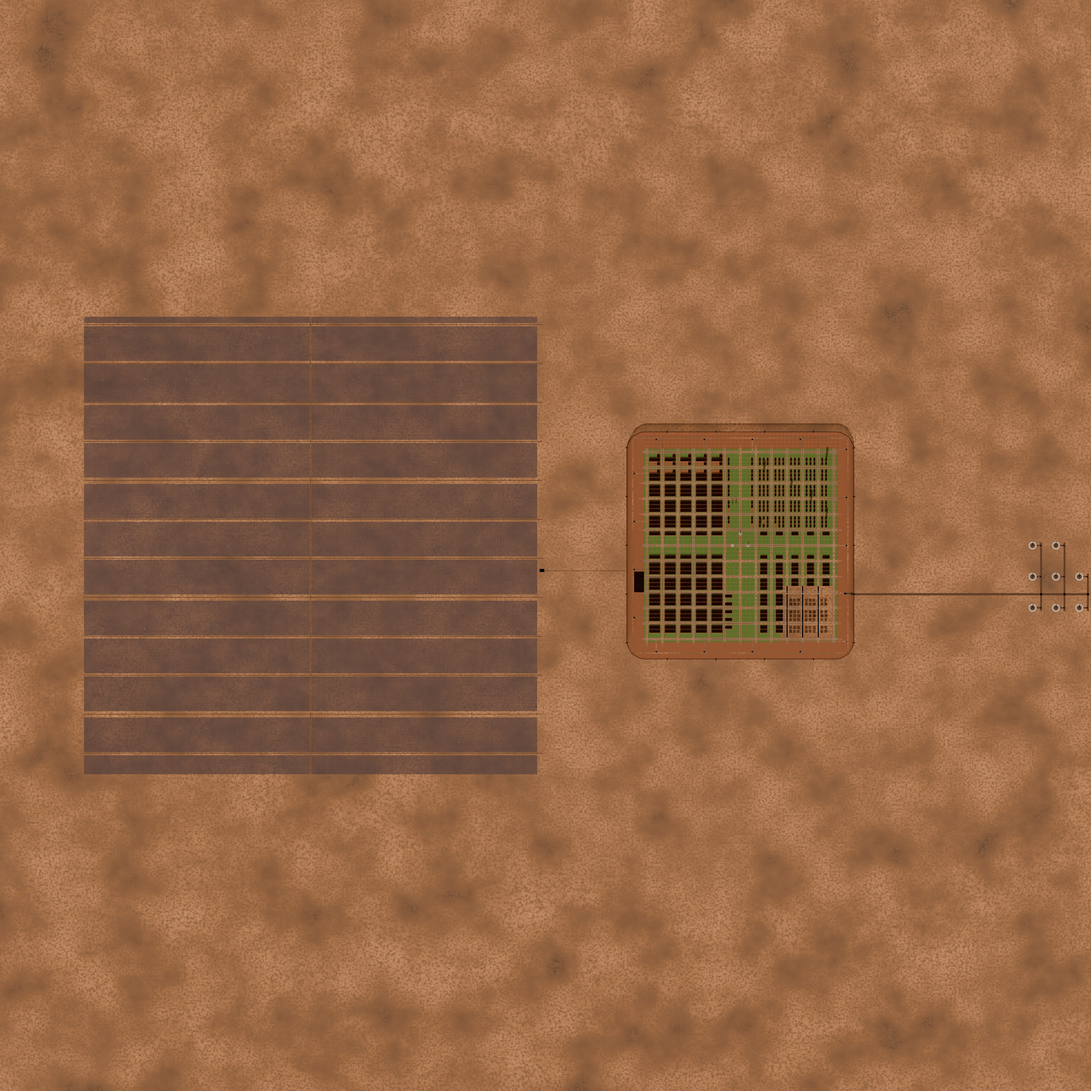
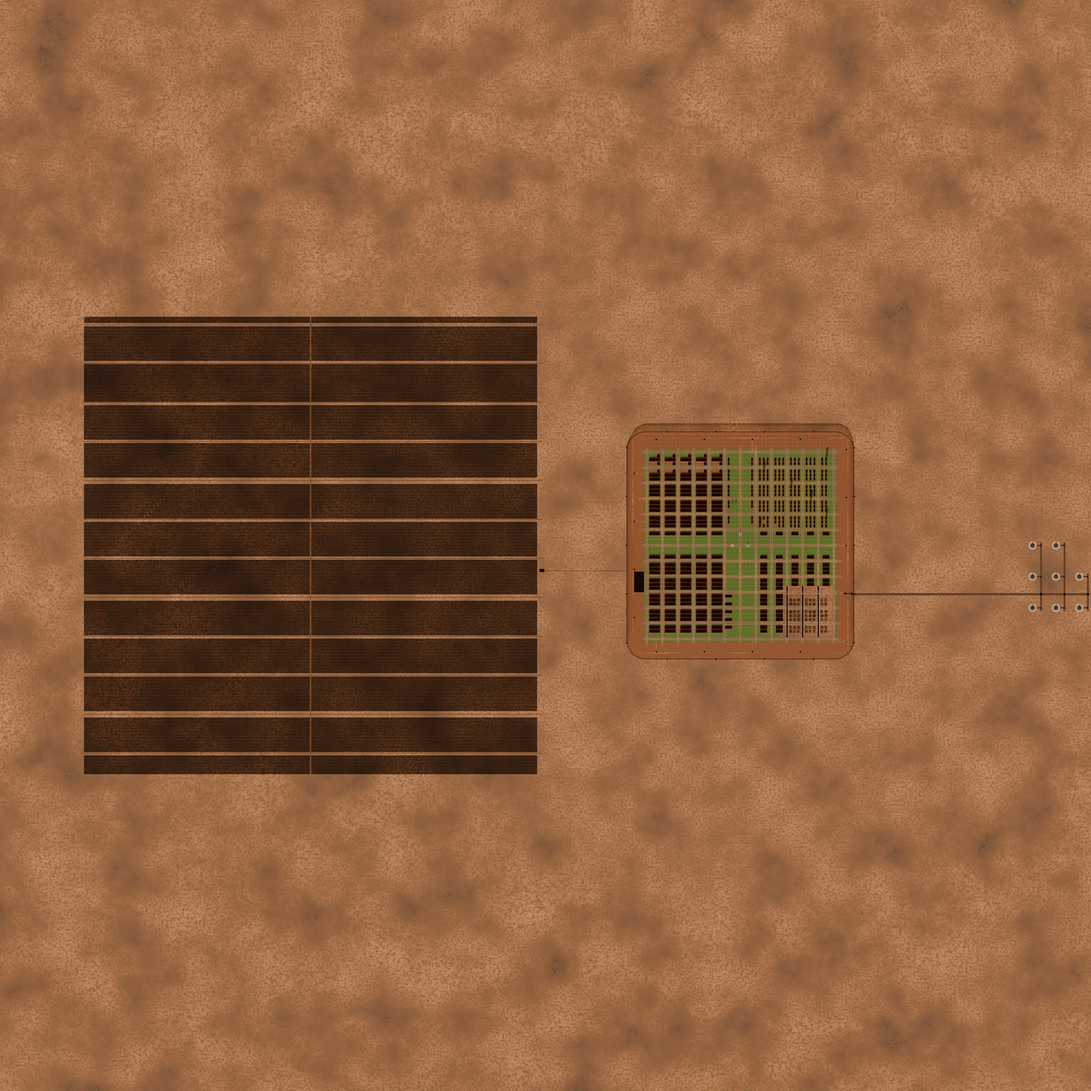
Mars vault: walk mode, touch joysticks, 3D solar farm, bluer sky, tan membrane

Changed region(s): [[0.0625, 0.2812, 0.5, 0.7188]]

diff --git a/mars-vault/viewer.js b/mars-vault/viewer.js
@@ -14,7 +14,8 @@ const info = await (await fetch(asset('scene.json'))).json();
 const b2t = (v) => new THREE.Vector3(v[0], v[2], -v[1]);
 
 const renderer = new THREE.WebGLRenderer({ antialias: true, logarithmicDepthBuffer: true });
-const small = matchMedia('(pointer: coarse)').matches || Math.min(innerWidth, innerHeight) < 600;
+const touch = matchMedia('(pointer: coarse)').matches;
+const small = touch || Math.min(innerWidth, innerHeight) < 600;
 renderer.setPixelRatio(Math.min(window.devicePixelRatio, small ? 1.25 : 2));
 renderer.setSize(window.innerWidth, window.innerHeight);
 renderer.toneMapping = THREE.AgXToneMapping;
@@ -22,7 +23,7 @@ renderer.toneMappingExposure = Math.pow(2, info.exposure_ev ?? 0.9);
 document.body.appendChild(renderer.domElement);
 
 const scene = new THREE.Scene();
-const FOG = new THREE.Color(0xc8b09a);
+const FOG = new THREE.Color(0xc2b3a8);
 const camera = new THREE.PerspectiveCamera(50, window.innerWidth / window.innerHeight, 0.5, 400000);
 
 // Sky: equirectangular Cycles render (world + haze), shown untonemapped.
@@ -99,10 +100,11 @@ const groundMat = new THREE.ShaderMaterial({
 });
 groundMat.toneMapped = false;
 
-// Membrane film: translucent, with welded bay seams and Kevlar lines from world position.
+// Membrane film: tan, fairly opaque and faintly self-lit like the sunlit laminate in the renders,
+// with welded bay seams and Kevlar lines from world position.
 function membraneMat() {
-  const m = new THREE.MeshStandardMaterial({ color: 0xf4efe6, roughness: 0.25, transparent: true, opacity: 0.22,
-                                             side: THREE.DoubleSide, depthWrite: false });
+  const m = new THREE.MeshStandardMaterial({ color: 0xdcc8ad, emissive: 0x5a4632, roughness: 0.55, transparent: true,
+                                             opacity: 0.42, side: THREE.DoubleSide, depthWrite: false });
   m.onBeforeCompile = (sh) => {
     sh.vertexShader = sh.vertexShader.replace('#include <common>', '#include <common>\nvarying vec3 vW;')
       .replace('#include <worldpos_vertex>', '#include <worldpos_vertex>\nvW = (modelMatrix * vec4(transformed, 1.0)).xyz;');
@@ -115,7 +117,14 @@ function membraneMat() {
         float fw = fwidth(q.x) * 0.65;
         float kev = (1.0 - smoothstep(0.02, 0.02 + fw, min(k.x, k.y))) * (1.0 - smoothstep(40.0, 400.0, length(vW - cameraPosition)));
         diffuseColor.rgb = mix(diffuseColor.rgb, vec3(0.78, 0.55, 0.22), kev * 0.6);
-        diffuseColor.a = clamp(diffuseColor.a + seam * 0.45 + kev * 0.25, 0.0, 1.0);`);
+        diffuseColor.a = clamp(diffuseColor.a + seam * 0.35 + kev * 0.2, 0.0, 1.0);`)
+      .replace('#include <emissivemap_fragment>', `#include <emissivemap_fragment>
+        // Sunlight transmitted through the film: facets facing the sun glow more (pillow shading from below).
+        vec3 nW = normalize(cross(dFdx(vW), dFdy(vW)));
+        float tr = abs(dot(nW, uSun));
+        totalEmissiveRadiance *= 0.35 + 1.6 * tr * tr;`)
+      .replace('#include <common>', '#include <common>\nuniform vec3 uSun;');
+    sh.uniforms.uSun = { value: sunDir };
   };
   return m;
 }
@@ -138,13 +147,37 @@ root.traverse((o) => {
   plain.get(key).push(o);
 });
 root.updateMatrixWorld(true);
+
+// Terrain height lookup (Blender XY -> height) from the near terrain grid, for walking and the solar rows.
+const H = (() => {
+  let mesh = null;
+  root.traverse((o) => { if (o.isMesh && /TERRAIN_?near/i.test(o.name + ' ' + (o.parent?.name || ''))) mesh = o; });
+  const [x0, y0, size] = info.near;
+  if (!mesh) return () => 0;
+  const pos = mesh.geometry.attributes.position, v = new THREE.Vector3();
+  const n = Math.round(Math.sqrt(pos.count)) - 1, step = size / n, r = n + 1;
+  const grid = new Float32Array(r * r);
+  for (let k = 0; k < pos.count; k++) {
+    v.fromBufferAttribute(pos, k).applyMatrix4(mesh.matrixWorld);
+    const i = Math.round((v.x - x0) / step), j = Math.round((-v.z - y0) / step);
+    if (i >= 0 && j >= 0 && i <= n && j <= n) grid[j * r + i] = v.y;
+  }
+  return (bx, by) => {
+    const fx = (bx - x0) / step, fy = (by - y0) / step;
+    if (fx < 0 || fy < 0 || fx >= n || fy >= n) return 0;
+    const i = Math.floor(fx), j = Math.floor(fy), tx = fx - i, ty = fy - j;
+    const a = grid[j * r + i], b = grid[j * r + i + 1], c = grid[(j + 1) * r + i], d = grid[(j + 1) * r + i + 1];
+    return (a * (1 - tx) + b * tx) * (1 - ty) + (c * (1 - tx) + d * tx) * ty;
+  };
+})();
+
 const hash = (v) => { const s = Math.sin(v.x * 12.9898 + v.z * 78.233) * 43758.5453; return s - Math.floor(s); };
 const tints = [0xffffff, 0xf4f0ea, 0xeee4d8, 0xe4d6c8, 0xe2e8e2, 0xfcfbf9, 0xd4d6da, 0xeee0cf].map((c) => new THREE.Color(c));
 const TILE = 600;
 const tileKey = (p) => Math.floor(p.x / TILE) + ',' + Math.floor(p.z / TILE);
 
-// Chunk instances into ~300 m tiles so frustum culling skips off-screen tiles and
-// three.js can draw near tiles first (hidden fragments are rejected by the depth test).
+// Chunk instances into tiles so frustum culling skips off-screen tiles and three.js can
+// draw near tiles first (hidden fragments are then rejected by the depth test).
 function chunked(geometry, material, matrices, colors, name) {
   const tiles = new Map();
   const p = new THREE.Vector3();
@@ -205,7 +238,6 @@ function updateLods(force) {
     if (!force && L.last.distanceToSquared(camera.position) < 25) continue;
     L.last.copy(camera.position);
     let n = 0, f = 0;
-    const yaw = Math.atan2(camera.position.x, camera.position.z);
     for (let i = 0; i < L.all.length; i++) {
       const d = L.pos[i].distanceTo(camera.position);
       if (d < L.range) { for (const m of L.near) m.setMatrixAt(n, L.all[i]); n++; }
@@ -237,7 +269,7 @@ for (const [name, parts] of byNode) {
     const geo = mergeGeometries([cable.toNonIndexed(), ring.toNonIndexed()]);
     lodGroup(parts, geo, new THREE.MeshStandardMaterial({ color: 0x8a8b8d, metalness: 0.8, roughness: 0.45 }), 350, false);
   } else if (name.startsWith('WEB_people')) {
-    // Each pose kind is its own node; LOD each separately with a 2D quad stand-in.
+    // Each pose kind is its own node; LOD each separately with a camera-facing 2D stand-in.
     const quad = new THREE.PlaneGeometry(0.5, 1.75).translate(0, 0.875, 0);
     const shirts = [0xd8d8d8, 0x33477a, 0xa8302a, 0x6d7445, 0xc8781a, 0x2f8a8a, 0x505054, 0xcdb48e].map((c) => new THREE.Color(c));
     const cols = Array.from({ length: parts[0].count }, (_, i) => shirts[i % shirts.length]);
@@ -270,6 +302,54 @@ for (const [name, parts] of byNode) {
     }
   }
 }
+
+// Solar farm: east/west tent rows generated from the same layout rules as the Blender scene
+// (tools/legacy/photoreal_solar.py), laid on the terrain.
+{
+  const F = info.solar, tilt = THREE.MathUtils.degToRad(F.tilt_deg);
+  const run = F.panel * Math.cos(tilt), ridge = F.low + F.panel * Math.sin(tilt), half = F.seg / 2;
+  const P = [], U = [];
+  for (const sgn of [-1, 1]) {            // two sloped module rows meeting at the ridge
+    const q = [[sgn * run, F.low, -half, 0, 0], [0, ridge, -half, 0, 1], [0, ridge, half, F.seg, 1], [sgn * run, F.low, half, F.seg, 0]];
+    for (const k of [0, 1, 2, 0, 2, 3]) { P.push(q[k][0], q[k][1], q[k][2]); U.push(q[k][3], q[k][4]); }
+  }
+  const g = new THREE.BufferGeometry();
+  g.setAttribute('position', new THREE.Float32BufferAttribute(P, 3));
+  g.setAttribute('uv', new THREE.Float32BufferAttribute(U, 2));
+  g.computeVertexNormals();
+  const cv = document.createElement('canvas'); cv.width = 64; cv.height = 128;
+  const cx = cv.getContext('2d');
+  cx.fillStyle = '#9a9ca0'; cx.fillRect(0, 0, 64, 128);                    // module frame
+  for (let r = 0; r < 12; r++) for (let c = 0; c < 6; c++) {
+    cx.fillStyle = (r + c) % 2 ? '#0b1430' : '#0e1838';
+    cx.fillRect(3 + c * 9.7, 3 + r * 10.2, 8.9, 9.4);
+  }
+  const map = new THREE.CanvasTexture(cv);
+  map.colorSpace = THREE.SRGBColorSpace; map.wrapS = THREE.RepeatWrapping; map.anisotropy = 8;
+  const mat = new THREE.MeshStandardMaterial({ map, color: 0xd9c9b8, roughness: 0.3, metalness: 0.1, side: THREE.DoubleSide });
+  const w = F.x1 - F.x0, h = F.y1 - F.y0;
+  const nx = Math.floor(w / F.pitch), ny = Math.floor(h / F.seg), dx = w / (nx - 1), dy = h / (ny - 1);
+  const band = (c, period, hw, off) => { const f = ((c - off) % period + period) % period; return Math.min(f, period - f) < hw; };
+  const mats = [], e = new THREE.Euler(), m = new THREE.Matrix4();
+  for (let j = 0; j < ny; j++) for (let i = 0; i < nx; i++) {
+    const x = F.x0 + i * dx, y = F.y0 + j * dy;
+    if (band(y, F.track_every, F.track_half, F.y0 + F.track_every / 2) || band(x, w / 2, F.spine_half, F.x0 + w / 2)) continue;
+    const z = H(x, y), pitch = Math.atan2(H(x, y + half) - H(x, y - half), F.seg);
+    m.makeRotationFromEuler(e.set(pitch, 0, 0)).setPosition(x, z, -y);
+    mats.push(m.clone());
+  }
+  chunked(g, mat, mats, null, 'solar rows');
+  // Inverter skids at the track junctions.
+  const skid = new THREE.BoxGeometry(7.8, 2.9, 2.8).translate(0, 1.45, 0);
+  const nkx = Math.floor(w / F.skid_every), nky = Math.floor(h / F.skid_every);
+  const sx = (w - F.skid_every) / (nkx - 1), sy = (h - F.skid_every) / (nky - 1);
+  const skids = [];
+  for (let j = 0; j < nky; j++) for (let i = 0; i < nkx; i++) {
+    const x = F.x0 + F.skid_every / 2 + i * sx, y = F.y0 + F.skid_every / 2 + j * sy;
+    skids.push(new THREE.Matrix4().setPosition(x, H(x, y), -y));
+  }
+  chunked(skid, new THREE.MeshStandardMaterial({ color: 0xb8b8b4, roughness: 0.5 }), skids, null, 'inverter skids');
+}
 scene.add(root);
 document.getElementById('loading').remove();
 window.__vault = { renderer, scene, camera, THREE };
@@ -286,44 +366,106 @@ function goTo(c) {
   const dist = Math.max(20, p.y * 2);
   controls.target.copy(p).addScaledVector(d, dist);
   controls.update();
+  camera.lookAt(controls.target);
+  if (mode === 'Walk') setMode('Walk');
 }
+
+// Modes: orbit, fly (WASD/QE) and walk (eye height above the terrain). Touch devices get two joysticks.
+const MODES = ['Orbit', 'Fly', 'Walk'];
+const HELP = {
+  Orbit: 'drag to orbit · scroll to zoom · right-drag to pan',
+  Fly: 'WASD move · Q/E down/up · shift faster · drag to look',
+  Walk: 'WASD walk · shift run · drag to look',
+};
+let mode = 'Orbit';
+const keys = new Set();
+const modeBtn = document.getElementById('walk');
+const pads = document.getElementById('pads');
+function setMode(next) {
+  mode = next;
+  controls.enabled = mode === 'Orbit';
+  if (mode === 'Orbit') {            // orbit around a point ahead of the current view
+    controls.target.copy(camera.position).add(new THREE.Vector3(0, 0, -Math.max(20, camera.position.y)).applyQuaternion(camera.quaternion));
+    controls.update();
+  }
+  modeBtn.textContent = MODES[(MODES.indexOf(mode) + 1) % MODES.length];
+  document.getElementById('help').textContent = touch && mode !== 'Orbit' ? 'left stick look · right stick move' : HELP[mode];
+  pads.hidden = !(touch && mode !== 'Orbit');
+  if (mode === 'Walk') {
+    camera.position.y = H(camera.position.x, -camera.position.z) + 1.7;
+    const eu = new THREE.Euler().setFromQuaternion(camera.quaternion, 'YXZ'); eu.x = 0; eu.z = 0;
+    camera.quaternion.setFromEuler(eu);
+  }
+}
+modeBtn.onclick = () => setMode(MODES[(MODES.indexOf(mode) + 1) % MODES.length]);
 const sel = document.getElementById('cams');
 info.cameras.forEach((c, i) => sel.add(new Option(c.name, i)));
 sel.onchange = () => sel.value !== '' && goTo(info.cameras[+sel.value]);
 goTo(info.cameras.find((c) => c.name.startsWith('07')) || info.cameras[0]);
+setMode('Orbit');
 updateLods(true);
 
-// Fly mode: WASD/QE + drag to look.
-let fly = false;
-const keys = new Set();
-const flyBtn = document.getElementById('walk');
-flyBtn.onclick = () => {
-  fly = !fly; controls.enabled = !fly; flyBtn.textContent = fly ? 'Orbit' : 'Fly';
-  document.getElementById('help').textContent = fly ? 'WASD move · Q/E down/up · shift faster · drag to look' : 'drag to orbit · scroll to zoom · right-drag to pan';
-};
-addEventListener('keydown', (e) => keys.add(e.key.toLowerCase()));
+addEventListener('keydown', (e) => { if (e.target === document.body) keys.add(e.key.toLowerCase()); });
 addEventListener('keyup', (e) => keys.delete(e.key.toLowerCase()));
+addEventListener('blur', () => keys.clear());
+function look(dx, dy) {
+  const eu = new THREE.Euler().setFromQuaternion(camera.quaternion, 'YXZ');
+  eu.y -= dx; eu.x = Math.max(-1.5, Math.min(1.5, eu.x - dy)); eu.z = 0;
+  camera.quaternion.setFromEuler(eu);
+}
 let dragging = false;
 renderer.domElement.addEventListener('pointerdown', () => { dragging = true; });
 addEventListener('pointerup', () => { dragging = false; });
-addEventListener('pointermove', (e) => {
-  if (!fly || !dragging) return;
-  const eu = new THREE.Euler().setFromQuaternion(camera.quaternion, 'YXZ');
-  eu.y -= e.movementX * 0.003; eu.x = Math.max(-1.5, Math.min(1.5, eu.x - e.movementY * 0.003));
-  camera.quaternion.setFromEuler(eu);
-});
+addEventListener('pointermove', (e) => { if (mode !== 'Orbit' && dragging) look(e.movementX * 0.003, e.movementY * 0.003); });
+
+// Joysticks: each returns a vector in [-1, 1]^2 while held.
+function stick(el) {
+  const knob = el.querySelector('.knob'), v = { x: 0, y: 0 }, R = 50;
+  let id = null, cx = 0, cy = 0;
+  const move = (e) => {
+    if (e.pointerId !== id) return;
+    let x = e.clientX - cx, y = e.clientY - cy;
+    const l = Math.hypot(x, y);
+    if (l > R) { x *= R / l; y *= R / l; }
+    v.x = x / R; v.y = y / R;
+    knob.style.transform = `translate(${x}px, ${y}px)`;
+  };
+  const end = (e) => { if (e.pointerId !== id) return; id = null; v.x = v.y = 0; knob.style.transform = ''; };
+  el.addEventListener('pointerdown', (e) => {
+    id = e.pointerId; el.setPointerCapture(id);
+    const r = el.getBoundingClientRect(); cx = r.left + r.width / 2; cy = r.top + r.height / 2;
+    move(e); e.preventDefault(); e.stopPropagation();
+  });
+  el.addEventListener('pointermove', move);
+  el.addEventListener('pointerup', end);
+  el.addEventListener('pointercancel', end);
+  return v;
+}
+const lookStick = stick(document.getElementById('lookPad'));
+const moveStick = stick(document.getElementById('movePad'));
 
 addEventListener('resize', () => {
   camera.aspect = innerWidth / innerHeight; camera.updateProjectionMatrix(); renderer.setSize(innerWidth, innerHeight);
 });
 const clock = new THREE.Clock();
 renderer.setAnimationLoop(() => {
-  const dt = clock.getDelta();
-  if (fly) {
-    const v = new THREE.Vector3((keys.has('d') - keys.has('a')), (keys.has('e') - keys.has('q')), (keys.has('s') - keys.has('w')));
-    const speed = (keys.has('shift') ? 120 : 15) * Math.max(1, camera.position.y / 20);
-    camera.position.add(v.applyQuaternion(camera.quaternion).multiplyScalar(speed * dt));
-  } else controls.update();
+  const dt = Math.min(clock.getDelta(), 0.1);
+  if (mode === 'Orbit') controls.update();
+  else {
+    look(lookStick.x * 1.8 * dt, lookStick.y * 1.4 * dt);
+    const kx = keys.has('d') - keys.has('a') + moveStick.x, kz = keys.has('s') - keys.has('w') + moveStick.y;
+    const run = keys.has('shift') || Math.hypot(moveStick.x, moveStick.y) > 0.95;
+    if (mode === 'Fly') {
+      const v = new THREE.Vector3(kx, keys.has('e') - keys.has('q'), kz);
+      const speed = (run ? 120 : 15) * Math.max(1, camera.position.y / 20);
+      camera.position.add(v.applyQuaternion(camera.quaternion).multiplyScalar(speed * dt));
+    } else {
+      const yaw = new THREE.Euler().setFromQuaternion(camera.quaternion, 'YXZ').y;
+      const v = new THREE.Vector3(kx, 0, kz).applyAxisAngle(THREE.Object3D.DEFAULT_UP, yaw);
+      camera.position.addScaledVector(v, (run ? 6 : 1.6) * dt);
+      camera.position.y = H(camera.position.x, -camera.position.z) + 1.7;
+    }
+  }
   updateLods(false);
   renderer.render(scene, camera);
 });

diff --git a/mars-vault/index.html b/mars-vault/index.html
@@ -2,17 +2,25 @@
 <html lang="en">
 <head>
   <meta charset="utf-8">
-  <meta name="viewport" content="width=device-width, initial-scale=1.0">
+  <meta name="viewport" content="width=device-width, initial-scale=1.0, maximum-scale=1.0, user-scalable=no">
   <title>Mars Tensile Vault | 3D</title>
   <link rel="icon" type="image/jpeg" href="../pfp.jpg">
   <style>
-    html, body { margin: 0; height: 100%; background: #c9b39c; overflow: hidden; font-family: Consolas, monospace; }
-    canvas { display: block; }
+    html, body { margin: 0; height: 100%; background: #c9b39c; overflow: hidden; font-family: Consolas, monospace;
+                 overscroll-behavior: none; -webkit-user-select: none; user-select: none; }
+    canvas { display: block; touch-action: none; }
     #ui { position: fixed; top: 12px; left: 12px; display: flex; gap: 8px; align-items: center; flex-wrap: wrap;
           background: rgba(0, 0, 0, 0.72); color: #fff; border: 1px solid #252525; padding: 8px 10px; border-radius: 8px; font-size: 13px; max-width: calc(100vw - 44px); }
     #ui select, #ui button { background: #000; color: #fff; border: 1px solid #444; font-family: inherit; border-radius: 5px; padding: 4px 6px; font-size: 13px; }
     #ui a { color: #ff3b30; text-decoration: none; }
     #help { color: #b8b8b8; }
+    #pads[hidden] { display: none; }
+    .pad { position: fixed; bottom: 28px; width: 120px; height: 120px; border-radius: 50%; touch-action: none;
+           background: rgba(0, 0, 0, 0.28); border: 1px solid rgba(255, 255, 255, 0.35); }
+    .pad .knob { position: absolute; left: 35px; top: 35px; width: 50px; height: 50px; border-radius: 50%;
+                 background: rgba(255, 255, 255, 0.55); pointer-events: none; }
+    .pad span { position: absolute; top: -20px; width: 100%; text-align: center; color: #fff; font-size: 11px; opacity: 0.7; }
+    #lookPad { left: 28px; } #movePad { right: 28px; }
     #loading { position: fixed; inset: 0; display: grid; place-items: center; color: #3b2a1c; font-size: 15px; pointer-events: none; }
   </style>
   <script type="importmap">
@@ -27,10 +35,14 @@
     <a href="../index.html">&larr; home</a>
     <strong>Mars Tensile Vault</strong>
     <select id="cams"><option value="">Viewpoints…</option></select>
-    <button id="walk" title="Fly with WASD / QE, drag to look">Fly</button>
+    <button id="walk" title="Switch between orbit, fly and walk">Fly</button>
     <span id="help">drag to orbit · scroll to zoom · right-drag to pan</span>
   </div>
+  <div id="pads" hidden>
+    <div class="pad" id="lookPad"><span>look</span><div class="knob"></div></div>
+    <div class="pad" id="movePad"><span>move</span><div class="knob"></div></div>
+  </div>
   <div id="loading">Loading the vault… (~15 MB)</div>
-  <script type="module" src="viewer.js?9"></script>
+  <script type="module" src="viewer.js?12"></script>
 </body>
 </html>
